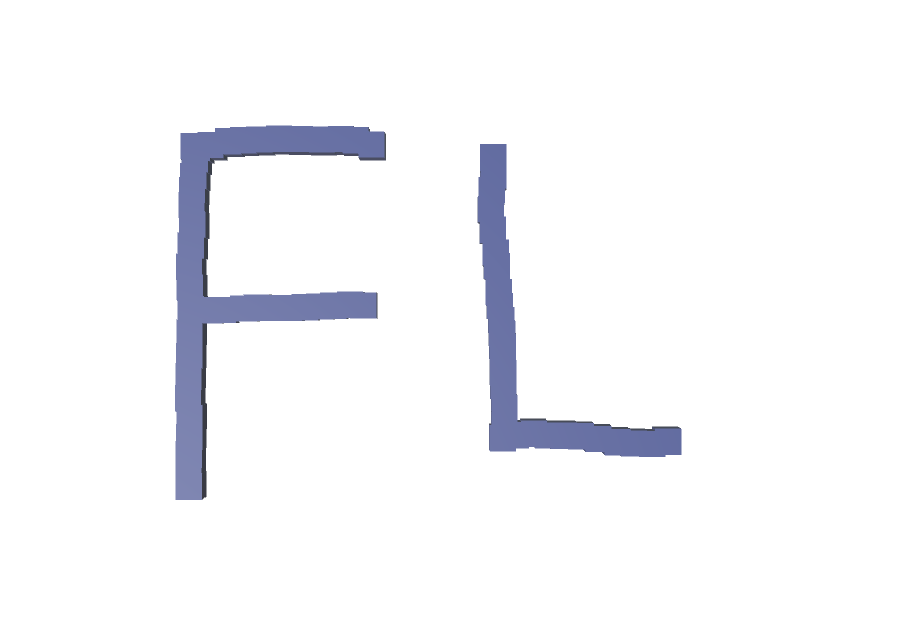
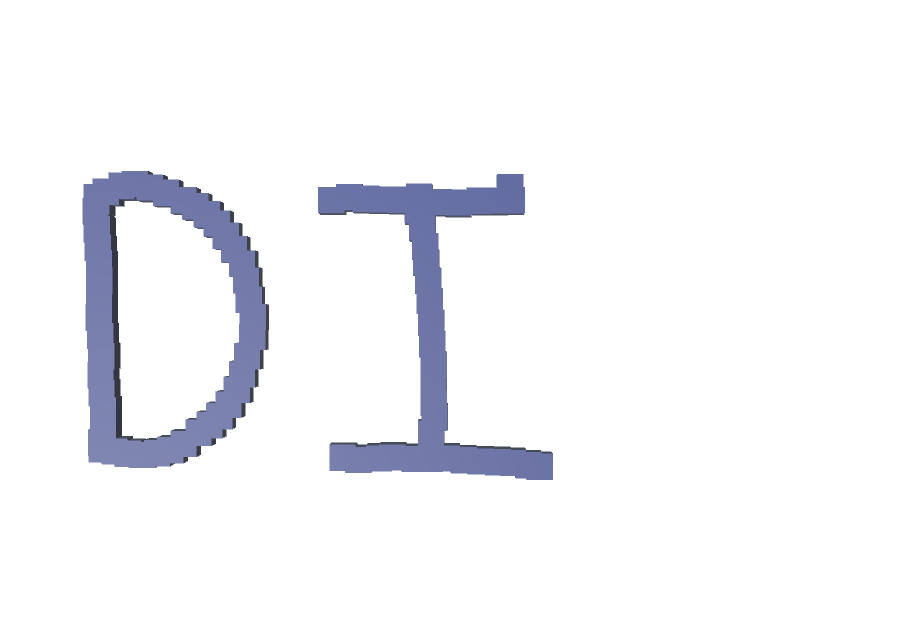
switch in UI Canvas text

Changed region(s): [[0.091, 0.1824, 0.7584, 0.8208]]

diff --git a/Assets/Scripts/simpleSearch.cs b/Assets/Scripts/simpleSearch.cs
@@ -1,5 +1,6 @@
 using System;
 using UnityEngine;
+using UnityEngine.UI;
 using System.Collections;
 
 public class simpleSearch : MonoBehaviour {
@@ -17,7 +18,7 @@ public class simpleSearch : MonoBehaviour {
     public GameObject catalog;
     public GameObject currMenuObj;
     public TextMesh searchText;
-    public TextMesh resultTitle;
+    public GameObject resultTitleCanvas;
 
     public arcLayout currMenu;
 
@@ -98,7 +99,8 @@ public class simpleSearch : MonoBehaviour {
 
         }
 
-        resultTitle.GetComponent<Renderer>().enabled = true;
+        resultTitleCanvas.SetActive(true);
+        //resultTitle.GetComponent<Renderer>().enabled = true;
         currMenu.hideMenu();
 
     }
@@ -142,7 +144,8 @@ public class simpleSearch : MonoBehaviour {
             currMenu.createArcMenu();
         }
 
-        resultTitle.GetComponent<Renderer>().enabled = false;
+        resultTitleCanvas.SetActive(false);
+        //resultTitle.GetComponent<Renderer>().enabled = false;
     }
 
     void Start () {
